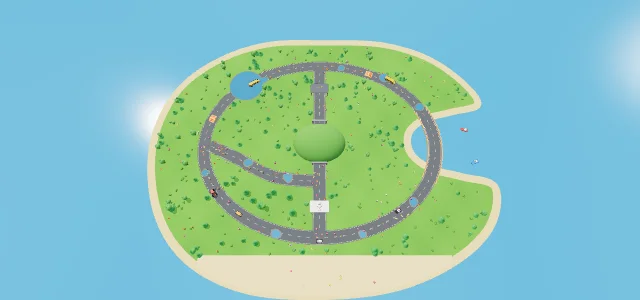
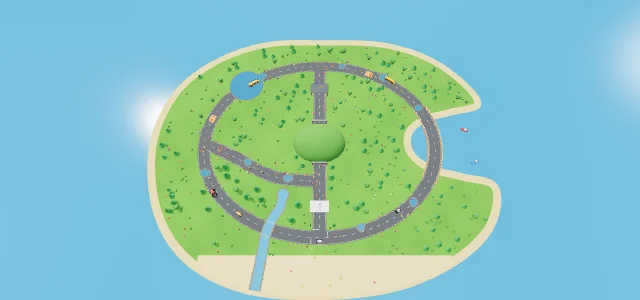
Driving: mud on the building site, a stream, ford and lights on the island
Two patches of mud on the building site's tracks; on the island a stream
from inside the loop to the sea, crossed by the loop at a ford, and
traffic lights where the shortcut meets the loop in the south. The map
pictures are drawn again.

diff --git a/src/games/racing/maps/island.ts b/src/games/racing/maps/island.ts
@@ -2,7 +2,8 @@
 // docs/design/island-layout-a.svg), grown to about three times its first area. A loop road round the island, a
 // shortcut through a hill in the middle and a spur from the loop to the shortcut, all joined at three-way
 // junctions; a bridge where the loop crosses a bay on the east, with boats moored in the bay; a wide beach on the
-// south coast; two ramps, the car wash, the garage and the flood; sheep and ducks in the fields.
+// south coast; two ramps, the car wash, the garage and the flood; a stream with a ford and traffic lights (ADR
+// 0042); sheep and ducks in the fields.
 //
 // Places below are written as in the layout picture, x east and z north, at its first size; `at` scales them by
 // GROW and turns them round, as the simulation's x grows westward (seen from above with north up).
@@ -58,6 +59,17 @@ const atLoop = (p: [number, number]) => {
 const onLoop = (p: [number, number], offset = 0): OnRoad => ({ road: 0, at: atLoop(p), offset });
 const atShortcut = (north: number) => nearestOn(shortcut, 1, 0, north * GROW).s / shortcut.length;
 
+/**
+ * A stream (ADR 0042): from a spring inside the loop, south-west of the hill, down across the loop road and the
+ * beach to the sea. Shallow all along; the loop crosses it at a ford.
+ */
+const STREAM = smoothPath(([[-14, -21], [-15, -26], [-18, -31], [-20, -37], [-21, -45], [-23, -58]] as [number, number][]).map(at), false, 1.5);
+/** Where the loop crosses the stream: the stream's point nearest the loop. */
+const FORD_AT = (() => {
+  const near = STREAM.map(([x, z]) => nearestOn(loop, 0, x, z)).sort((a, b) => a.dist - b.dist)[0]!;
+  return near.s / loop.length;
+})();
+
 /** The beach: the south coast below the loop road, out to the shoreline. */
 const BEACH_EDGE = -43 * GROW;
 const beachShore = SHORE.filter(([x, z]) => z < BEACH_EDGE && -x > -44 * GROW && -x < 48 * GROW);
@@ -86,6 +98,10 @@ export const ISLAND: MapDef = {
     { kind: 'car-wash', on: { road: 1, at: atShortcut(-26) }, r: 4 },
     // The garage (ADR 0035): drive in, come out as the next vehicle.
     { kind: 'garage', on: { road: 1, at: atShortcut(24) }, r: 4 },
+    // ADR 0042: the ford where the loop crosses the stream, and traffic lights where the shortcut meets the loop in
+    // the south (for show: traffic may wait at red, the kid never does).
+    { kind: 'ford', on: { road: 0, at: FORD_AT }, r: 6 },
+    { kind: 'lights', on: onLoop([0, -37]), r: 5 },
   ],
   traffic: [
     { kind: 'bus', on: onLoop([30, 28], -2.2), cruise: 6.5 },
@@ -99,9 +115,10 @@ export const ISLAND: MapDef = {
     pools: [{ on: onLoop([-32, 27]), r: 13, deep: true }],
     puddles: [{
       road: 0,
-      at: ([[28, 30], [36, -24], [-16, -35], [-44, -12], [10, 37], [42, 16], [-26, 33], [16, -36]] as [number, number][]).map(atLoop),
+      at: ([[28, 30], [36, -24], [-44, -12], [10, 37], [42, 16], [-26, 33], [16, -36]] as [number, number][]).map(atLoop),
       spread: 6, size: [2, 1.6],
     }, { road: 2, at: [0.4, 0.75], spread: 4, size: [2, 1.2] }],
+    streams: [{ points: STREAM, width: 6 }],
   },
   trees: {
     kinds: [{ id: 'scenery/pine', share: 2 }, { id: 'scenery/round-tree', share: 1 }],

diff --git a/src/games/racing/maps/site.ts b/src/games/racing/maps/site.ts
@@ -1,6 +1,7 @@
 // The building site (milestone-3 E; ADR 0035): a square of land by the sea, about 230 m across. A loop of dirt
 // track round it, a north-south track through the middle and an east-west track from the loop's west side to it,
-// joined at three-way junctions. Dirt hills to drive round, three ramps, mud puddles and a muddy pond, a sand pit,
+// joined at three-way junctions. Dirt hills to drive round, three ramps, two patches of mud (ADR 0042), mud
+// puddles and a muddy pond, a sand pit,
 // cones and crates to knock down, cows in a field, the site office as the garage, a car wash, and the building
 // vehicles first in traffic. Places are in the simulation's own x and z, in metres.
 import type { MapDef, OnRoad } from '../sim/map';
@@ -59,6 +60,10 @@ export const SITE: MapDef = {
     { kind: 'car-wash', on: { road: 2, at: atCross(-46) }, r: 4 },
     // The site office: the garage (ADR 0035).
     { kind: 'garage', on: { road: 1, at: atMiddle(30) }, r: 4 },
+    // Mud (ADR 0042): a patch across the loop's south side and one on the middle track's north end. The car wash
+    // on the east-west track washes it off.
+    { kind: 'mud', on: onLoop(-22, -72), r: 6.5 },
+    { kind: 'mud', on: { road: 1, at: atMiddle(52) }, r: 6 },
   ],
   traffic: [
     { kind: 'bus', on: onLoop(-60, 64, 2.2), cruise: 6 },
